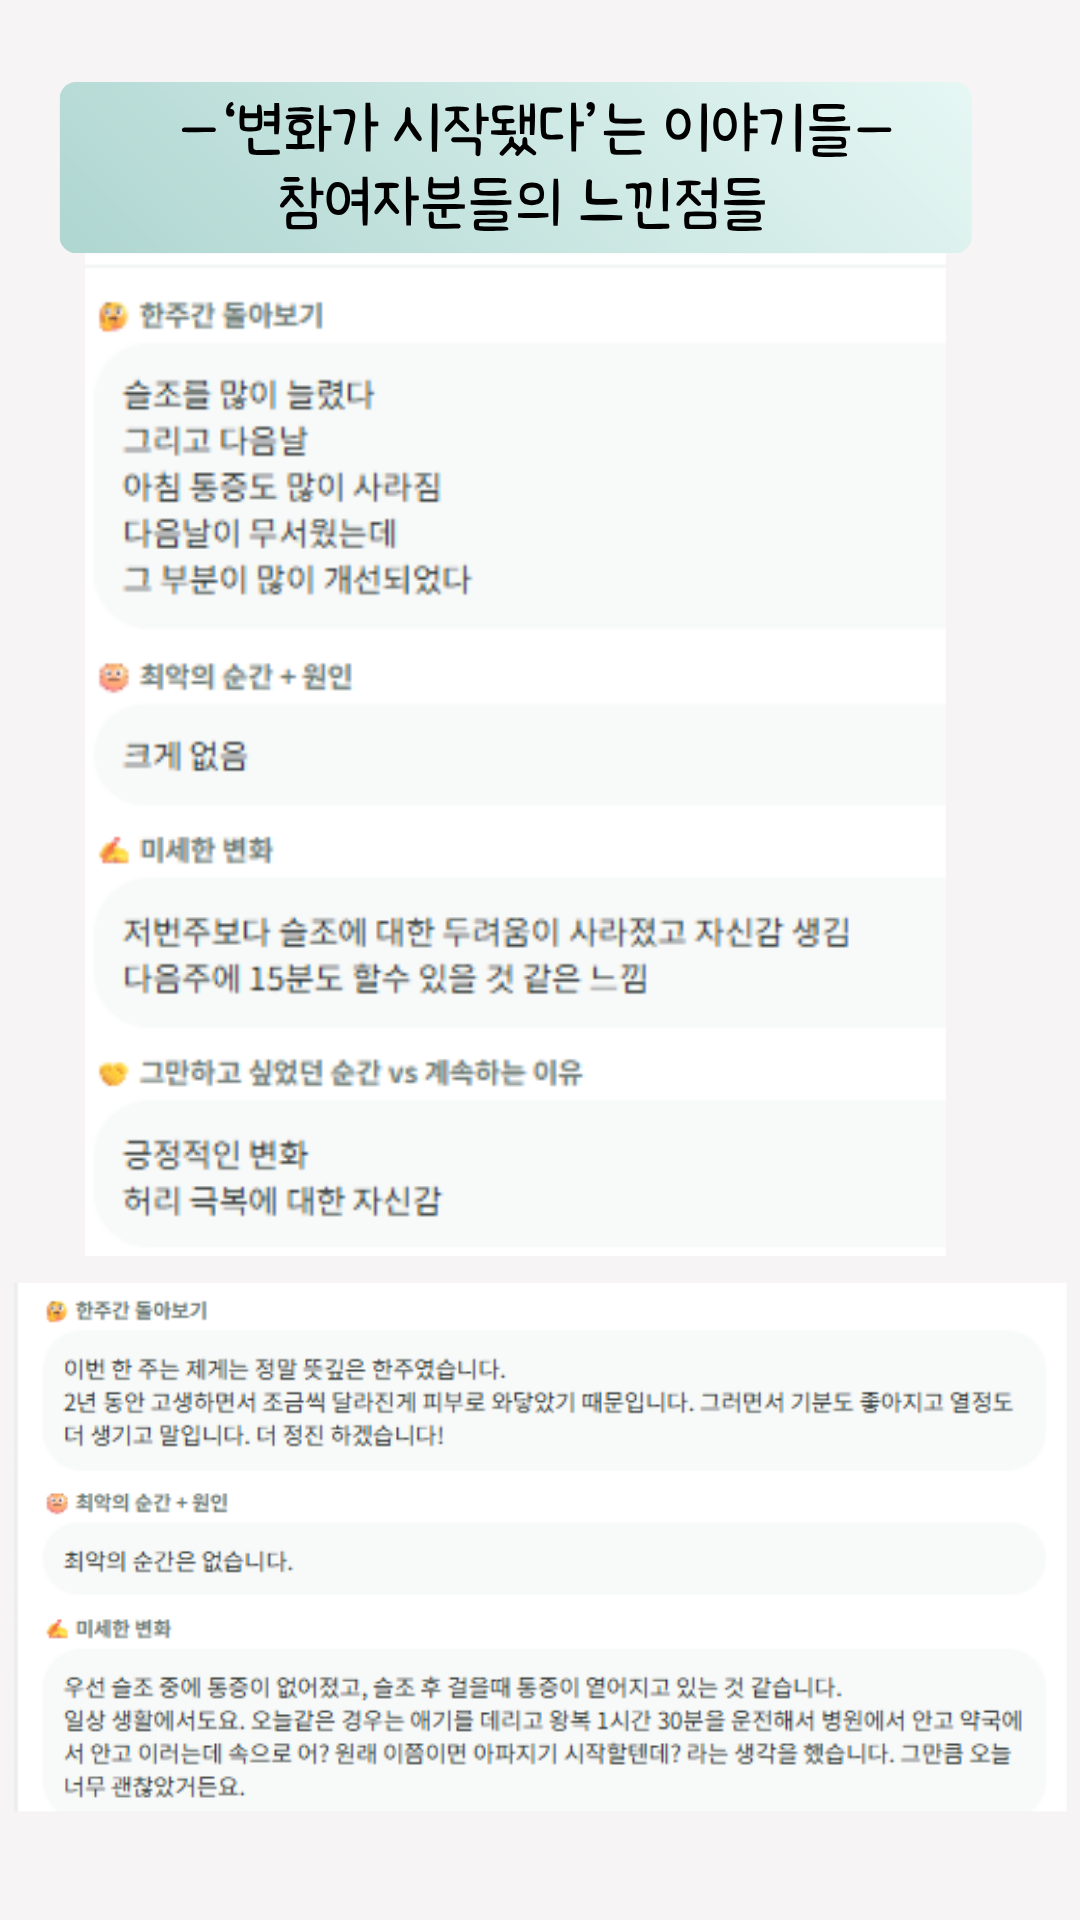
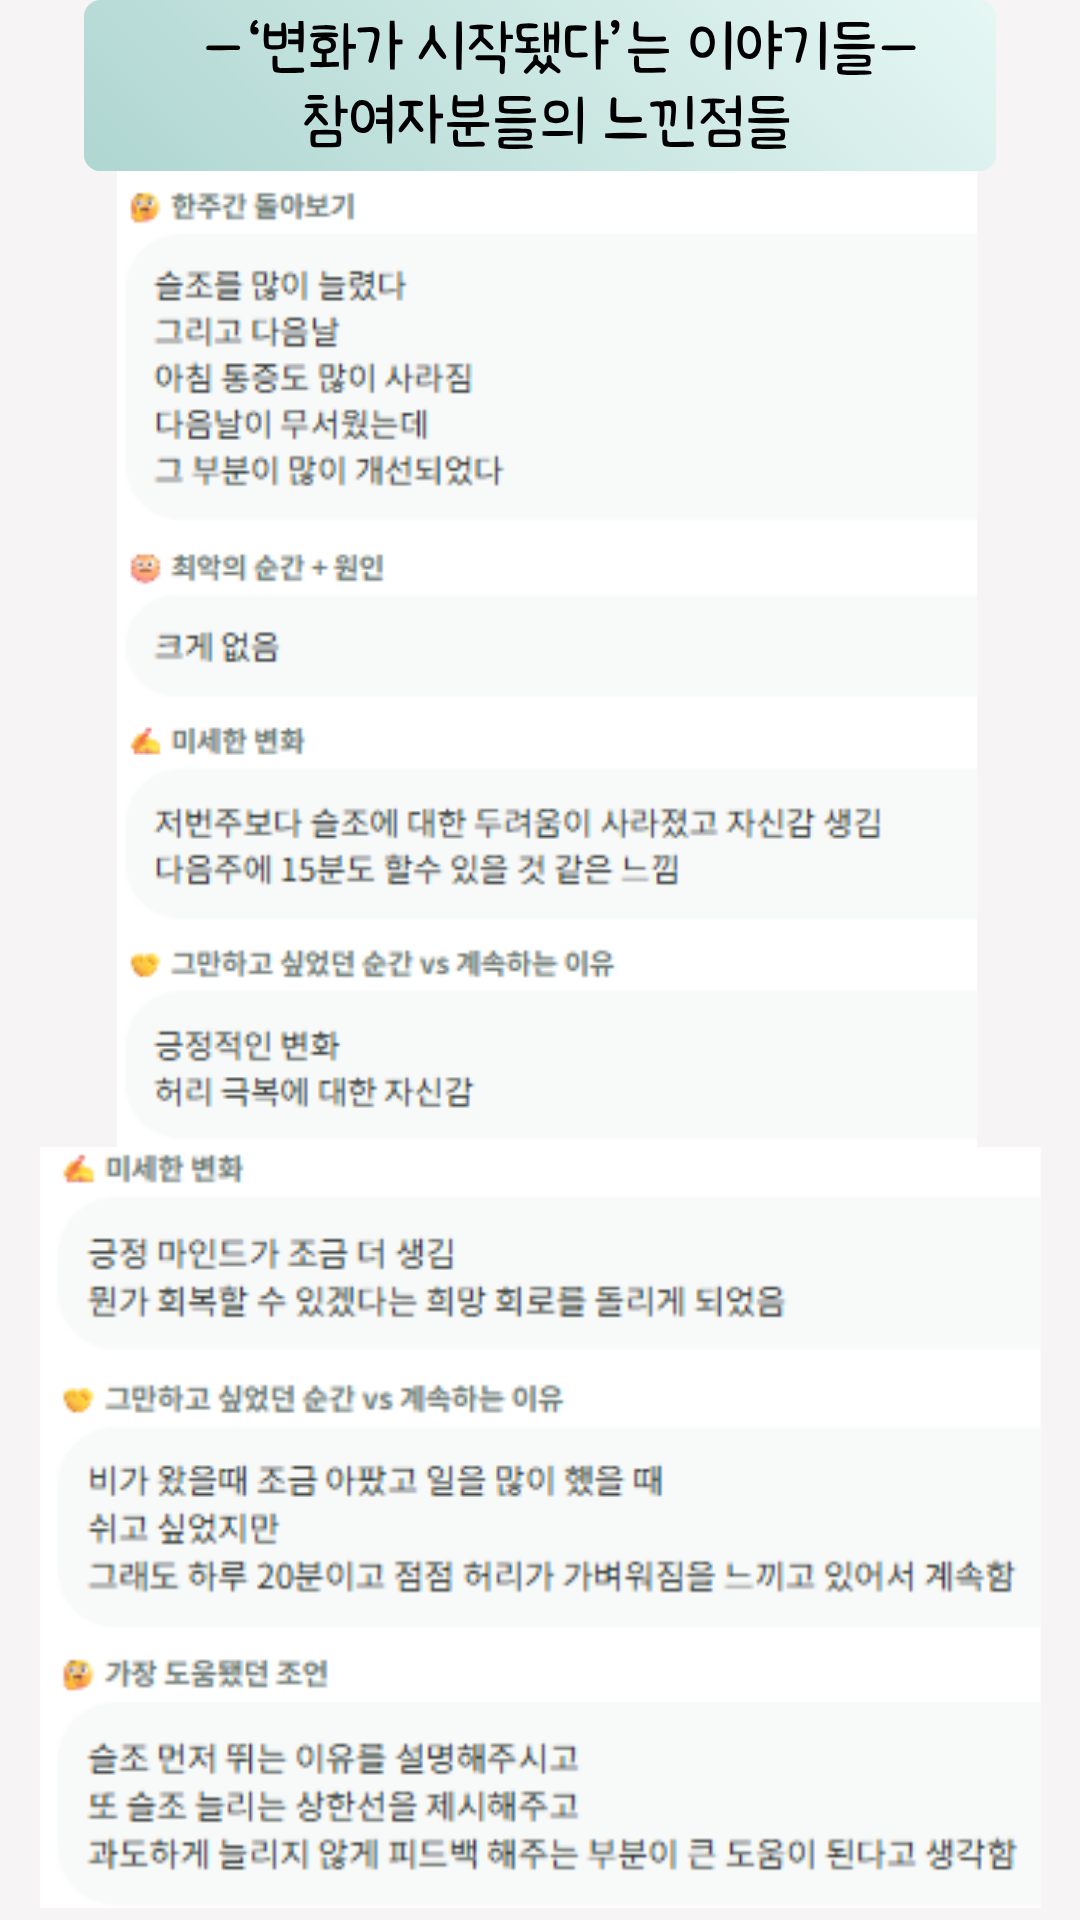
랜딩: 참여자 설문 후기 이미지 교체 + 추가

Changed region(s): [[0.0306, 0.0, 0.9472, 1.0]]

diff --git a/index.html b/index.html
@@ -903,6 +903,9 @@
         <img src="./img/img3.png" alt="참여자분들의 느낀점들">
       </div>
       <div class="img-frame">
+        <img src="./img/img11.png" alt="참여자 설문 후기 추가">
+      </div>
+      <div class="img-frame">
         <div class="img-frame-label">그 외 참여자 일일 기록</div>
         <img src="./img/img4.png" alt="그 외 참여자 기록">
       </div>